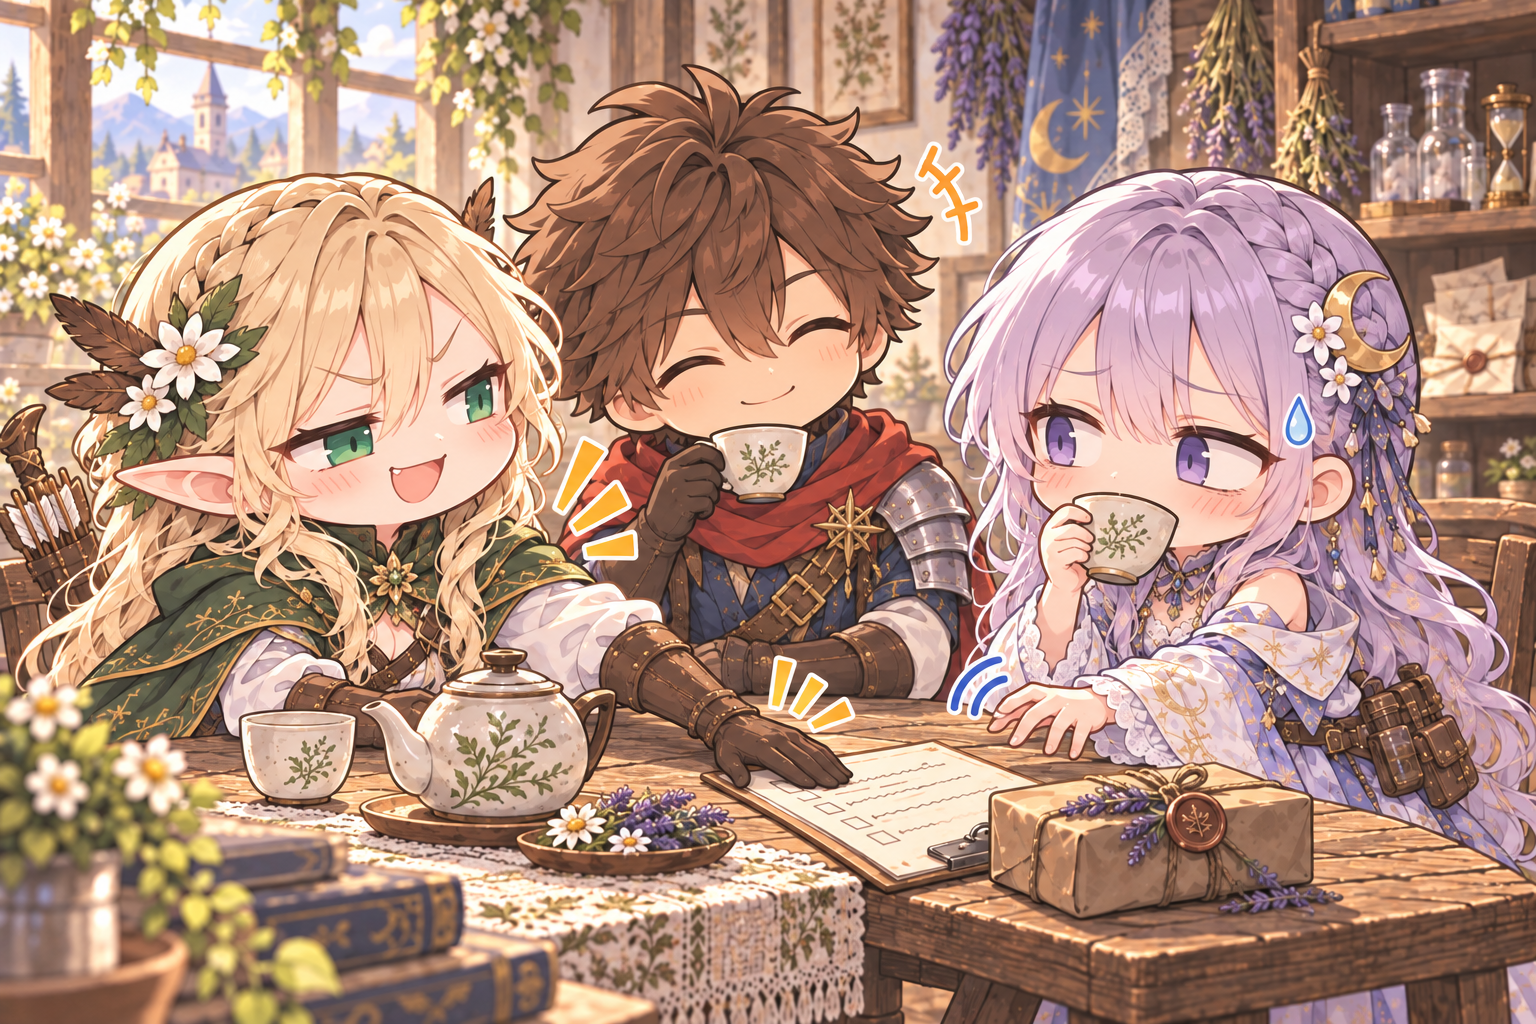
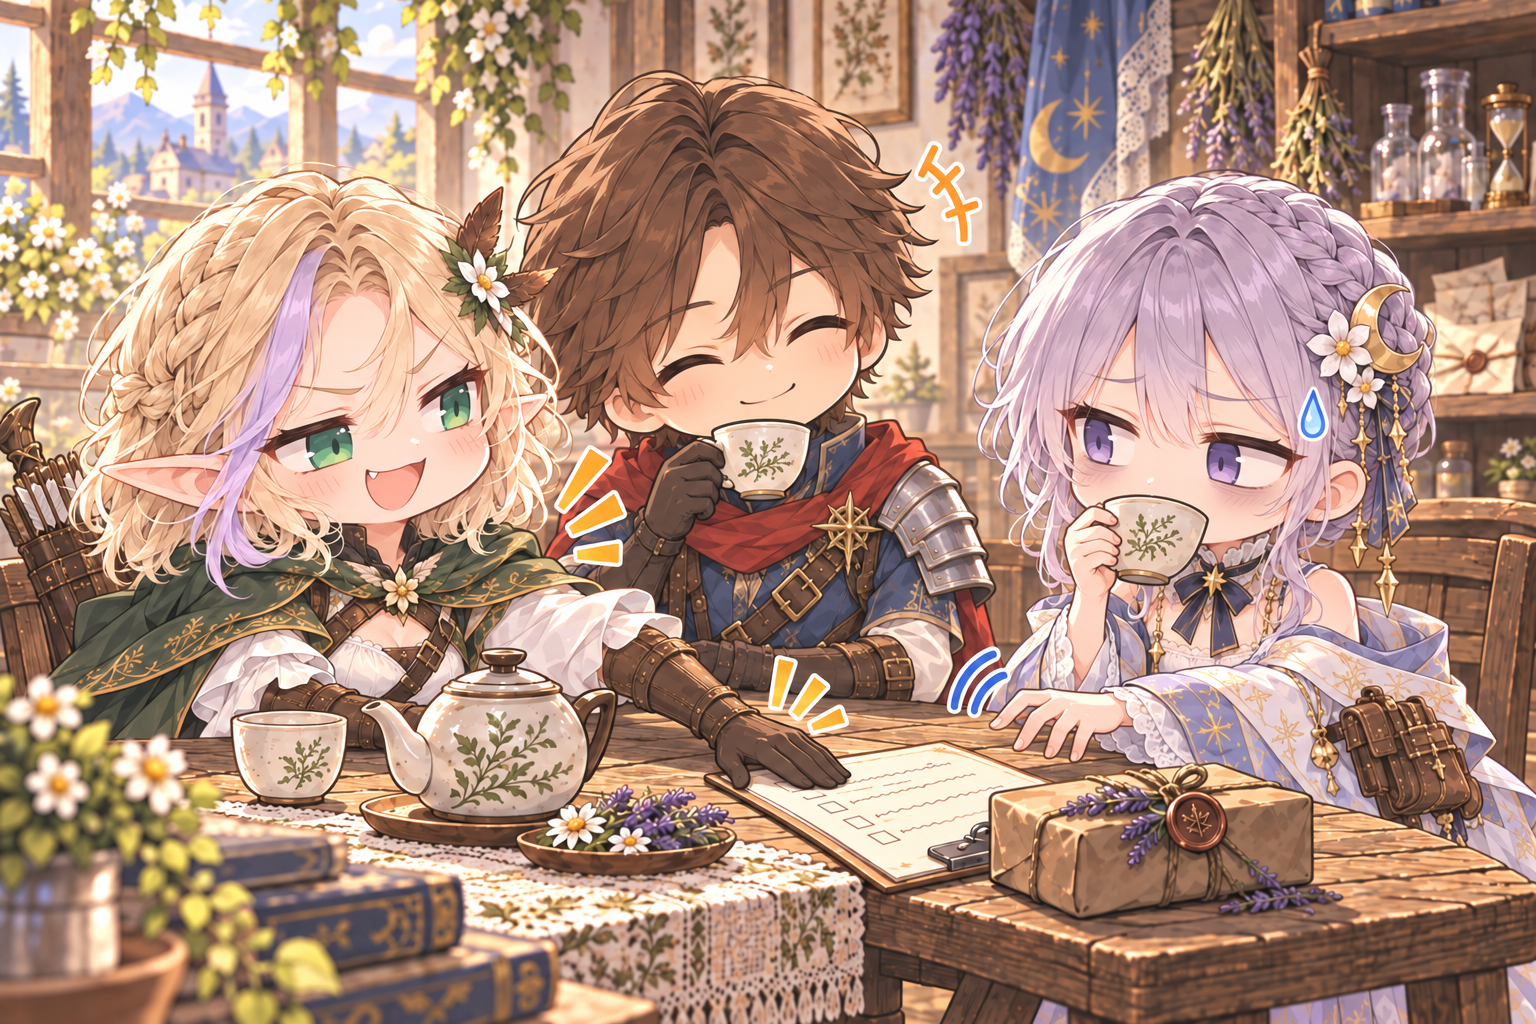
Refresh chapter 2-9 comic tea still to current character designs

diff --git a/docs/art/story-art.md b/docs/art/story-art.md
@@ -44,6 +44,8 @@
 
 両画像を目視し、人物の外見、匙での服薬とお茶の最初の一口、三人の席とカップ数、不要な文字の不在を確認。読了後は共通アルバムから閲覧できる。
 
+2026-10-05に2-9のお茶だけを最新設定画へ合わせて更新した。大きな頭と小さな体、仕事のメモへ手を伸ばすミラ、紙を遠ざけるアリア、笑うレオンのコミカルなやり取りを保つ。アリアは短い金髪と正面から見て左側の薄紫の一房、ミラは薄紫の編み込みのまとめ髪と目元の疲労、レオンは簡素な横流しの髪と短い片肩マントを反映する。[更新記録](../art-generation/three-cups-refresh-20261005.json)を参照。2-6・2-8の画像は今回差し替えない。
+
 ## 第二章2-6：大小の人形
 
 `assets/source/stories/begging-dolls.png` は1536×1024。`begging-golem-departure` の0始まり3行目、大小の人形が同じおねだりをする行から表示し、既存の思い出・アルバムにも登録する。

diff --git a/docs/art/story-art-gallery.md b/docs/art/story-art-gallery.md
@@ -54,7 +54,7 @@
 
 ![三人のお茶](../../public/stories/three-cups-of-tea.webp)
 
-第二章2-9。ミラがカップを受け取り一口飲む行から表示。
+第二章2-9。ミラがカップを受け取り一口飲む行から表示。2026-10-05に最新設定画へ更新し、アリアの短い金髪と薄紫の一房、ミラのまとめ髪、レオンの短い片肩マントを反映した。三人のお茶と仕事のメモをめぐるコミカルな仕草を保つ。[更新記録](../art-generation/three-cups-refresh-20261005.json)を参照。
 
 ## 第三章
 
